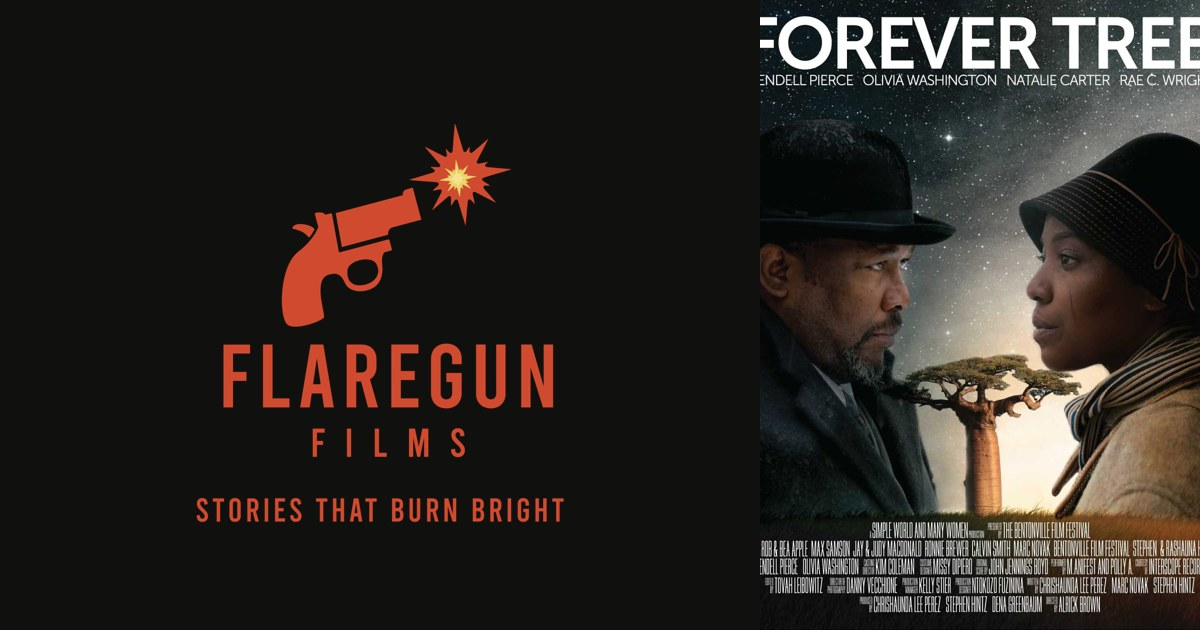
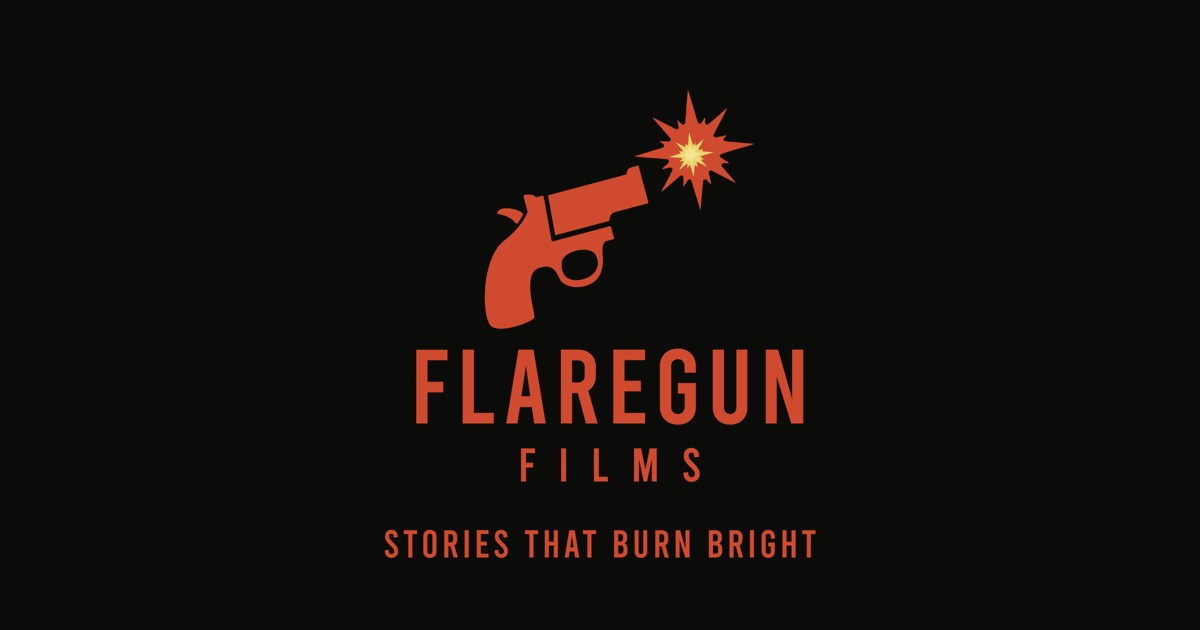
Center homepage opening on Flare Gun Films

diff --git a/index.html b/index.html
@@ -20,7 +20,7 @@
   <title>Flare Gun Films | Stories That Find You</title>
   <link rel="stylesheet" href="style.css?v=2026-10-23-professional" />
   <link rel="icon" type="image/png" href="assets/brand/favicon.png">
-  <link rel="stylesheet" href="/polish.css?v=2026-10-23-mobile">
+  <link rel="stylesheet" href="/polish.css?v=2026-10-23-company">
 </head>
 
 <body class="home-page">
@@ -38,15 +38,15 @@
   </header>
 
   <main id="main-content" tabindex="-1">
-    <section class="hero editorial-hero" aria-labelledby="home-title">
+    <section class="hero editorial-hero company-hero" aria-labelledby="home-title">
       <div class="hero-inner">
         <p class="eyebrow">Independent film &amp; television</p>
-        <h1 id="home-title">Stories That<br>Find You.</h1>
+        <h1 id="home-title">Flare Gun Films</h1>
+        <p class="company-tagline">Stories That Find You.</p>
         <p class="hero-text">True stories. Literary adaptations. Original voices.<br>Film and television from writer-producer Stephen Hintz.</p>
         <p class="hero-credit">From the co-writer of <em>The Hill</em></p>
         <div class="hero-actions"><a class="button button-primary" href="#projects">Explore the Slate</a><a class="button" href="industry-inquiry.html">Industry Inquiries</a></div>
       </div>
-      <figure class="hero-feature"><img width="1080" height="1350" src="assets/forever-tree/poster.jpg" alt="Artwork for The Forever Tree" fetchpriority="high"><figcaption><span>From our work</span><a href="forever-tree.html">The Forever Tree <span aria-hidden="true">&rarr;</span></a><small>The 2017 short. A new feature and series in development.</small></figcaption></figure>
     </section>
 
     <section id="selected-work" class="selected-work" aria-labelledby="selected-work-title">

diff --git a/polish.css b/polish.css
@@ -107,6 +107,12 @@ footer p { font-size: 13px; line-height: 1.7; }
 .industry-form small { color: var(--muted); font-weight: 400; letter-spacing: 0; text-transform: none; }
 .form-submit p { color: #b5aca1; }
 .thanks-panel h1 { font-size: clamp(48px,7vw,88px); }
+.editorial-hero.company-hero { grid-template-columns: minmax(0, 1fr); min-height: 580px; text-align: center; place-items: center; padding: clamp(56px, 8vw, 104px) 24px; }
+.company-hero .hero-inner { align-items: center; max-width: 1020px; width: 100%; }
+.editorial-hero.company-hero h1 { font-size: clamp(56px, 8vw, 108px); line-height: 1.04; }
+.company-tagline { margin: 22px 0 0; font: 400 clamp(24px, 3vw, 34px)/1.3 Georgia, serif; color: var(--accent); }
+.company-hero .hero-actions { justify-content: center; }
+@media (max-width: 600px) { .editorial-hero.company-hero { min-height: auto; padding: 58px 24px 64px; } .editorial-hero.company-hero h1 { max-width: 340px; font-size: clamp(50px, 13vw, 72px); } }
 /* Allow project grid children to shrink inside narrow phone viewports. */
 .clean-project-hero > *, .teaser-copy, .teaser-art, .teaser-facts > div { min-width: 0; }
 @media (max-width: 850px) {
